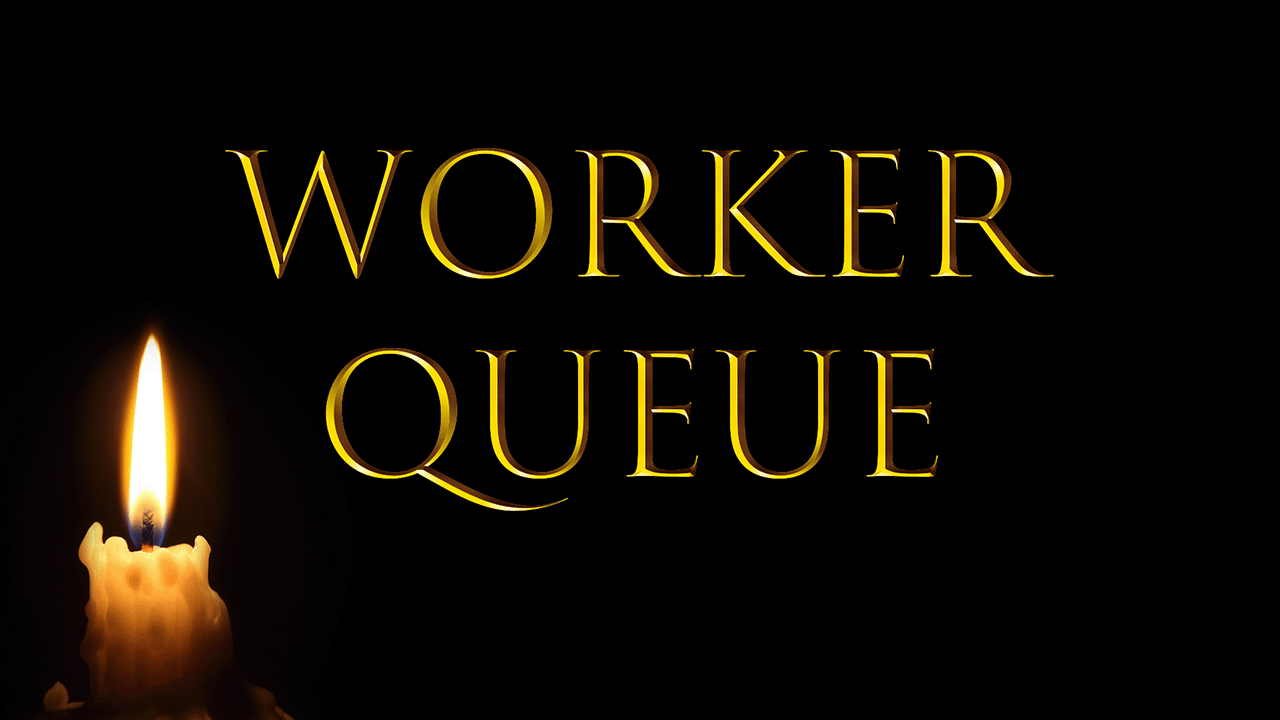
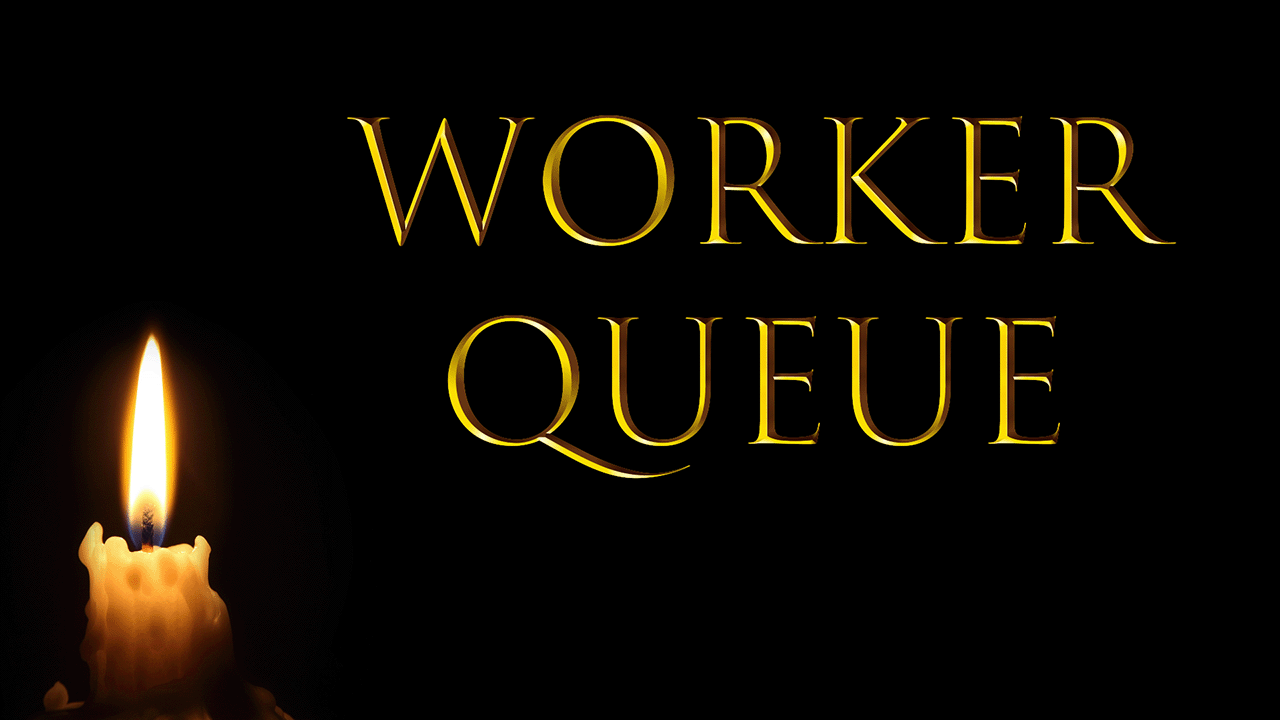
update wallpapers

diff --git a/docs/ring_buffer.md b/docs/ring_buffer.md
@@ -1,7 +1,7 @@
 ---
 title: Ring Buffer
 excerpt: A data structure that helps us minimize contention between threads.
-cover img: https://upload.wikimedia.org/wikipedia/commons/thumb/b/b7/Circular_buffer.svg/1280px-Circular_buffer.svg.png?utm_source=en.wikipedia.org&utm_campaign=imageinfo&utm_content=thumbnail
+cover img: "../images/ring_buffer.png"
 tags:
   - concurrency
   - data_structure

diff --git a/docs/concurrency_concepts.md b/docs/concurrency_concepts.md
@@ -1,7 +1,7 @@
 ---
 title: Concurrency Concepts
 excerpt: Key concepts and keywords to keep in mind when working with multithreaded programming.
-cover img: https://preview.redd.it/parallelism-be-like-v0-9tu18n684z331.jpg?auto=webp&s=251119eba2b3b80b982934c71919990a77f7236c
+cover img: "../images/concurrency_concepts.png"
 tags:
   - addendum
   - concurrency
